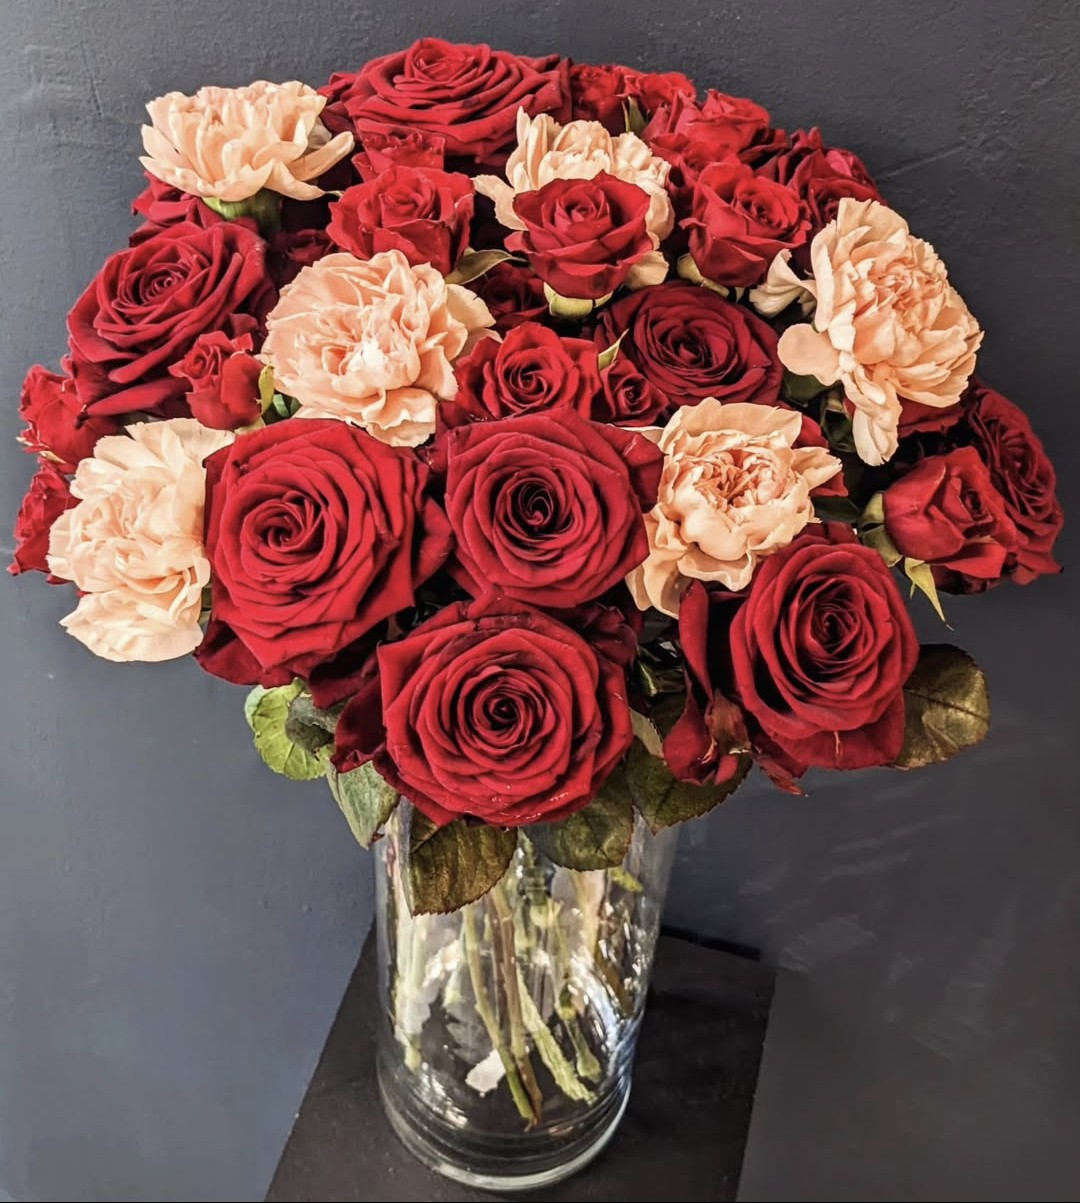
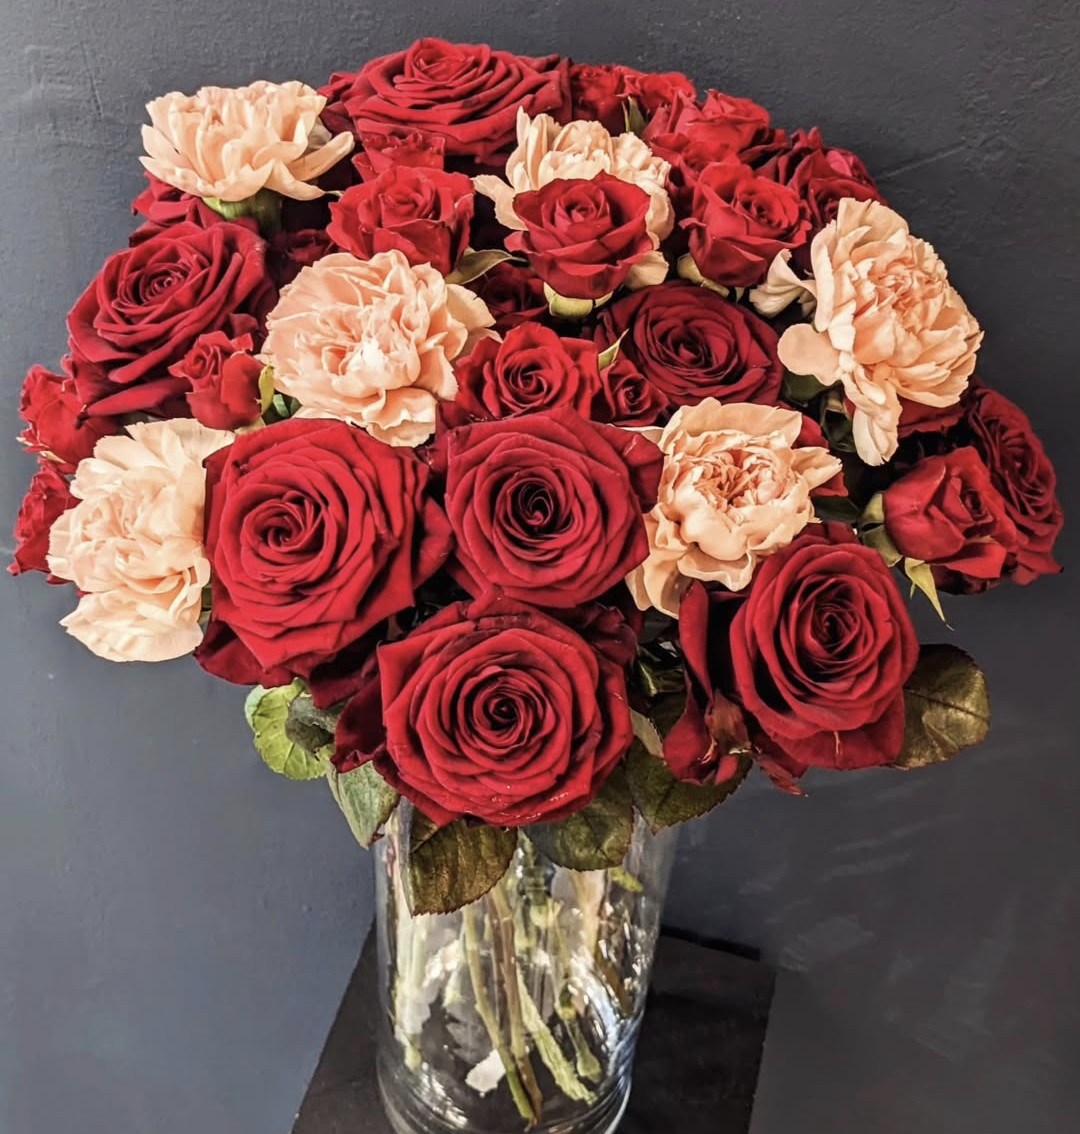
minor changes, font header photo

diff --git a/src/pages/front/welcome/welcome.css b/src/pages/front/welcome/welcome.css
@@ -18,7 +18,7 @@
   display: flex;
   text-align: left;
   justify-content: center;
-  font-family: "Cormorant Upright";
+  font-family: "Gill Sans", "Gill Sans MT", Calibri, "Trebuchet MS", sans-serif;
 }
 .welcome-text h1 {
   font-size: 34px;
@@ -27,13 +27,15 @@
 }
 .welcome-text h2 {
   color: var(--color-blue);
-  font-size: 28px;
+  font-size: 26px;
+  font-weight: 100;
   margin-top: 2px;
   width: 620px;
   border-bottom: 1px solid black;
 }
 .welcome-text h3 {
   font-size: 22px;
+  font-weight: 100;
   margin-right: 2rem;
 }
 .welcome-pic {
@@ -76,15 +78,14 @@
   .welcome {
     height: 1350px;
   }
-  .welcome img {
-  }
 
   .welcome-text h1 {
     font-size: 30px;
   }
   .welcome-text h2 {
     width: 444px;
-    font-size: 20px;
+    font-size: 19px;
+    border-bottom: none;
   }
   .welcome-text h3 {
     font-size: 18px;
@@ -99,11 +100,11 @@
     height: 800px;
   }
   .welcome-text h2 {
-    width: 400px;
-    font-size: 18px;
+    width: 70vw;
+    font-size: 17px;
   }
   .welcome-text h3 {
-    font-size: 18px;
+    font-size: 17px;
   }
   .welcome-text {
     height: 800px;

diff --git a/src/pages/front/header/Header.css b/src/pages/front/header/Header.css
@@ -3,7 +3,7 @@
   background-color: var(--color-cream);
   height: 80vh;
 }
-.header-slider {
+/* .header-slider {
   position: absolute;
   visibility: hidden;
   top: 50%;
@@ -14,9 +14,15 @@
   transform: translate(-50%, -50%);
   animation: 3s slider 1s;
   animation-iteration-count: 1;
+} */
+.header-bg2 {
+  visibility: hidden;
+  width: 100%;
+  height: 82vh;
+  object-fit: cover;
 }
 
-@keyframes slider {
+/* @keyframes slider {
   0% {
     visibility: visible;
   }
@@ -30,9 +36,9 @@
   height: 200px;
   width: 150px;
   object-fit: cover;
-}
+} */
 
-.header img {
+.header-bg {
   width: 100%;
   height: 82vh;
   object-fit: cover;
@@ -73,6 +79,15 @@
     width: 500px;
     top: 85%;
     left: 50%;
+  }
+  .header-bg2 {
+    visibility: visible;
+  }
+  .header-bg {
+    visibility: hidden;
+    width: 0;
+    height: 0;
+    object-fit: none;
   }
   .header-info h2 {
     font-size: 40px;

diff --git a/src/pages/front/header/Header.jsx b/src/pages/front/header/Header.jsx
@@ -1,6 +1,7 @@
 import React from "react";
 import "./Header.css";
-import headerImg from "../../../pics/header2.png";
+import headerImg from "../../../pics/header4.jpg";
+import headerImg2 from "../../../pics/header4copy.jpg";
 import logo2 from "../../../pics/logo2.png";
 
 const Header = () => {
@@ -8,8 +9,9 @@ const Header = () => {
     <div className="header">
       {/* <div className="header-slider">
         <img src={logo2} alt="logo" />
-      </div> */}
-      <img src={headerImg} alt="konvaljen front" />
+      </div> */}{" "}
+      <img className="header-bg" src={headerImg} alt="konvaljen front" />
+      <img className="header-bg2" src={headerImg2} alt="konvaljen front" />
       <div className="header-info">
         <h2>En blomma för varje stund</h2>
       </div>

diff --git a/src/pages/workshop/Workshop/Workshop.jsx b/src/pages/workshop/Workshop/Workshop.jsx
@@ -17,7 +17,7 @@ const Workshop = () => {
           en trevlig stund med andra likasinnade personer.
           <p />
           Allt material ingår och under kvällen bjuds det även på fika. Och
-          självklart tar du det du skapat med dig hem!{" "}
+          självklart tar du med dig det du skapat hem!{" "}
         </span>
       </div>
       <div className="workshop-bild">

diff --git a/src/pages/blommor/Blommor/Blommor.jsx b/src/pages/blommor/Blommor/Blommor.jsx
@@ -13,7 +13,7 @@ const Blommor = () => {
         <div className="blommor-head-text">
           <span>
             Varje bukett är unik <p /> Varje blomma är säsongsberoende
-            <p /> Varje människa gillar olika saker{" "}
+            <p /> Varje människa har preferenser{" "}
           </span>
         </div>
       </div>

diff --git a/src/pages/blommor/Blommor/Blommor.css b/src/pages/blommor/Blommor/Blommor.css
@@ -40,7 +40,7 @@
   font-size: 35px;
   text-shadow: 5px;
   font-weight: 600;
-  color: rgb(82, 106, 240);
+  color: rgb(0, 0, 0);
 }
 .blommor-gallery {
   display: flex;
